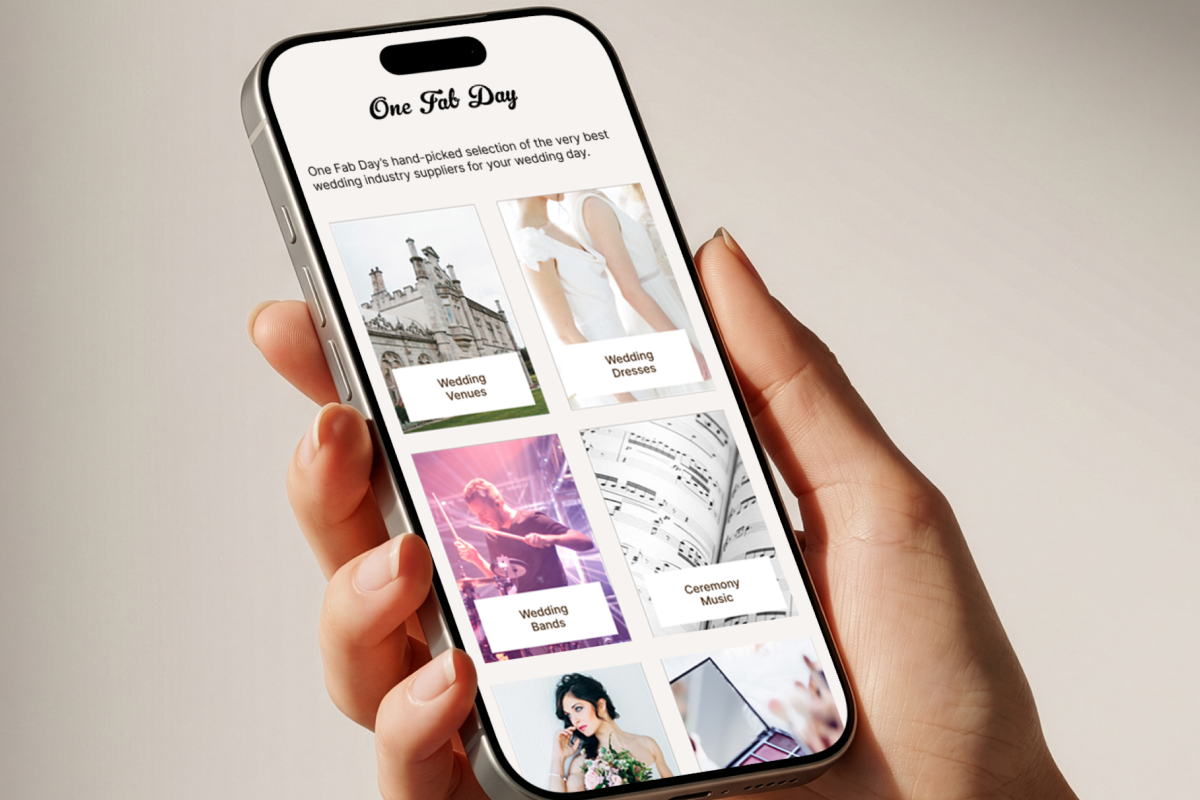
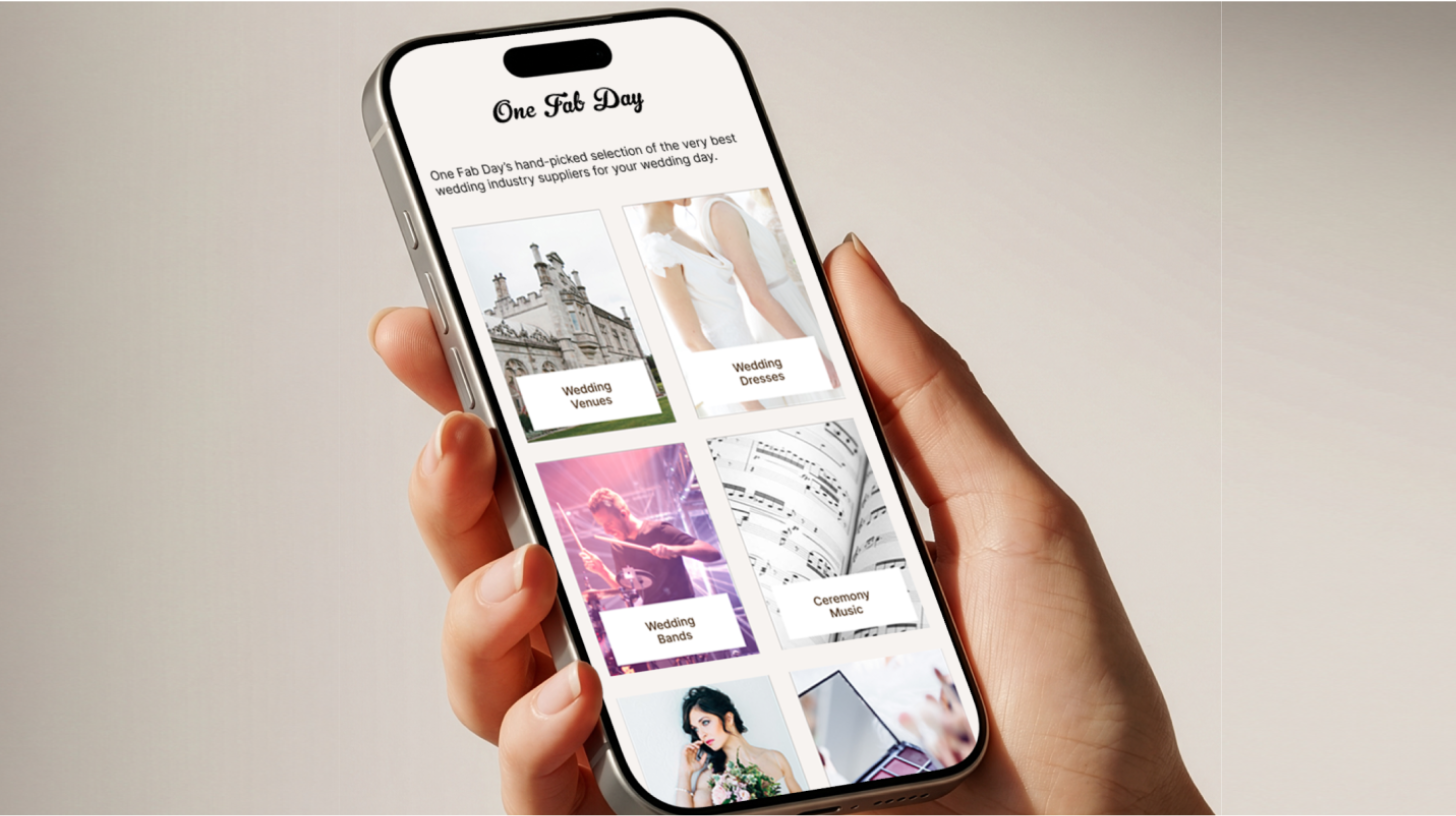
Update homepage and case study presentation

Changed region(s): [[0.185, 0.0, 0.8942, 1.0]]

diff --git a/components/home/home.data.ts b/components/home/home.data.ts
@@ -10,11 +10,6 @@ export function getPrimaryNav(activeKey: SiteNavKey = null): NavItem[] {
       active: activeKey === "case-study",
     },
     {
-      label: "PLAY",
-      href: "/play",
-      active: activeKey === "play",
-    },
-    {
       label: "ABOUT",
       href: "/about",
       active: activeKey === "about",
@@ -33,11 +28,6 @@ export function getFooterNav(activeKey: SiteNavKey = null): NavItem[] {
       label: "WORK",
       href: "/#selected-work",
       active: activeKey === "case-study",
-    },
-    {
-      label: "PLAY",
-      href: "/play",
-      active: activeKey === "play",
     },
     {
       label: "ABOUT",
@@ -118,7 +108,7 @@ export const homeProjectItems: ProjectItem[] = [
     summary:
       "Replaced fragmented admin systems with a custom club management system built with AI-assisted workflows.",
     description: "",
-    tags: ["SERVICE DESIGN", "WORKFLOW DESIGN", "AI-ASSISTED BUILD"],
+    tags: ["SERVICE DESIGN", "WORKFLOW DESIGN", "PRODUCT BUILD"],
     image: {
       foregroundSrc: "/home/projects/koe-crm-laptop.png",
       alt: "Knights of Éanna CRM shown on a laptop",

diff --git a/components/case-studies/rollercoaster-baby-names-page.module.css b/components/case-studies/rollercoaster-baby-names-page.module.css
@@ -203,8 +203,8 @@
 }
 
 .heroFigure {
-  width: 100%;
-  max-width: 600px;
+  width: 80%;
+  max-width: none;
   margin: 0 auto;
   display: flex;
   flex-direction: column;
@@ -425,7 +425,7 @@
 }
 
 .panelText {
-  max-width: 44ch;
+  max-width: none;
   font-family: var(--font-sans);
   font-size: var(--type-body-sm-size);
   line-height: 1.6;
@@ -493,6 +493,10 @@
   .main {
     padding: 88px 24px 64px;
     gap: 56px;
+  }
+
+  .heroFigure {
+    width: 100%;
   }
 
   .heroTitle {

diff --git a/components/case-studies/vinyl-catalog-page.module.css b/components/case-studies/vinyl-catalog-page.module.css
@@ -166,8 +166,8 @@
 }
 
 .heroFigure {
-  width: 100%;
-  max-width: 560px;
+  width: 80%;
+  max-width: none;
   margin: 0 auto;
   display: flex;
   flex-direction: column;
@@ -443,6 +443,11 @@
     padding: 72px 32px 56px;
   }
 
+  .heroFigure {
+    width: 100%;
+    margin: 0 auto;
+  }
+
   .metadataGrid,
   .snapshotGrid,
   .copyGrid,
@@ -450,10 +455,6 @@
   .prototypeList,
   .decisionColumns {
     grid-template-columns: 1fr;
-  }
-
-  .heroFigure {
-    margin: 0;
   }
 }
 

diff --git a/components/case-studies/one-fab-day-page.module.css b/components/case-studies/one-fab-day-page.module.css
@@ -204,8 +204,8 @@
 }
 
 .heroFigure {
-  width: 100%;
-  max-width: 680px;
+  width: 80%;
+  max-width: none;
   margin: 0 auto;
   display: flex;
   flex-direction: column;
@@ -375,6 +375,7 @@
 .inlineImageFrame {
   width: 100%;
   overflow: hidden;
+  border: 1px solid var(--color-border-subtle);
   background: var(--color-surface);
 }
 
@@ -487,6 +488,10 @@
   .main {
     gap: 56px;
     padding: 72px 32px 56px;
+  }
+
+  .heroFigure {
+    width: 100%;
   }
 
   .metadataGrid,

diff --git a/components/case-studies/one-fab-day-page.tsx b/components/case-studies/one-fab-day-page.tsx
@@ -102,7 +102,7 @@ export function OneFabDayPage() {
             </h1>
             <figure className={styles.heroFigure} data-reveal>
               <Image
-                src="/home/projects/onefabday.png"
+                src="/home/projects/ofd-weddingbook.png"
                 alt="One Fab Day homepage and wedding imagery"
                 width={1512}
                 height={1110}

diff --git a/components/case-studies/knights-of-eanna-page.module.css b/components/case-studies/knights-of-eanna-page.module.css
@@ -133,8 +133,8 @@
 }
 
 .heroFigure {
-  width: 100%;
-  max-width: 960px;
+  width: 80%;
+  max-width: none;
   margin: 0 auto;
 }
 
@@ -357,6 +357,10 @@
   .main {
     gap: 56px;
     padding: 72px 32px 56px;
+  }
+
+  .heroFigure {
+    width: 100%;
   }
 
   .metadataGrid,

diff --git a/app/about/page.tsx b/app/about/page.tsx
@@ -61,7 +61,8 @@ const skillGroups = [
       "TypeScript",
       "GitHub",
       "Vercel",
-      "AI-assisted development",
+      "Claude Code",
+      "Codex",
     ],
   },
   {

diff --git a/components/home/homepage.module.css b/components/home/homepage.module.css
@@ -257,7 +257,7 @@
 }
 
 .heroContent {
-  width: min(100%, 1100px);
+  width: 100%;
   display: flex;
   flex-direction: column;
   gap: 24px;
